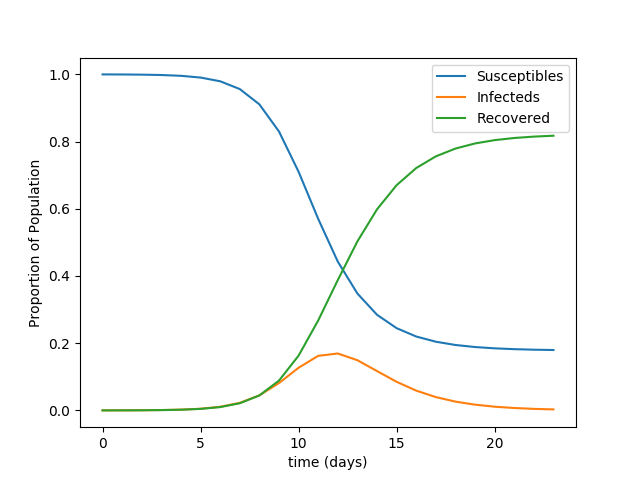
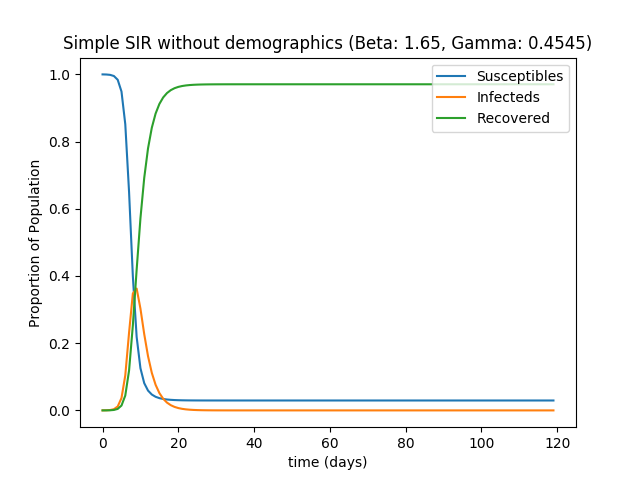
update from 09/25

diff --git a/src/closed_sir.py b/src/closed_sir.py
@@ -13,7 +13,7 @@ from sympy import *
 # time zero
 t0 = 0
 # end time
-tn = 365
+tn = 120
 # time step
 t_step = 1
 
@@ -50,6 +50,8 @@ sol = odeint(closed_sir, init_params, time_steps)
 
 # Plot the results in one figure
 plt.plot(sol)
+plt.title("Simple SIR without demographics (Beta: {}, Gamma: {})".format(beta
+                                                                         , gamma))
 plt.xlabel("time (days)")
 plt.ylabel("Proportion of Population")
 plt.legend(("Susceptibles", "Infecteds", "Recovered"),
@@ -57,19 +59,19 @@ plt.legend(("Susceptibles", "Infecteds", "Recovered"),
 plt.savefig("closed-sir.png")
 
 ##########################################
-# Multiple values of beta and gamma plot #
+# Multiple values of beta and gamma plot ##
 ##########################################
 
 # Transmission rate
-beta_values = [2**x for x in range(5, 9)]
-# Recovery rate
-gamma_values = [0.33, 0.11, 0.055, 0.037]
+#beta_values = [2**x for x in range(5, 9)]
+#Recovery rate
+#gamma_values = [0.33, 0.11, 0.055, 0.037]
 
-fig, axs = plt.subplots(4, 4)
-fig.suptitle("SIR over multiple values")
-for beta in beta_values:
-    for gamma in gamma_values:
-        sol = odeint(closed_sir, init_params, time_steps)
-        axs[beta_values.index(beta), gamma_values.index(gamma)].plot(sol)
-        axs[beta_values.index(beta), gamma_values.index(gamma)].set_title('Beta:{} Gamma:{}'.format(beta, gamma))
-plt.savefig("mutliple-plots.png")
+##fig, axs = plt.subplots(4, 4)
+#fig.suptitle("SIR over multiple values")
+#for beta in beta_values:
+#    for gamma in gamma_values:
+#        sol = odeint(closed_sir, init_params, time_steps)
+#        axs[beta_values.index(beta), gamma_values.index(gamma)].plot(sol)
+#        axs[beta_values.index(bet#a), gamma_values.index(gamma)].set_title('Beta:{} Gamma:{}'.format(beta, gamma))
+#plt.savefig("mutliple-plots.png")

diff --git a/src/demographics-sir.py b/src/demographics-sir.py
@@ -4,8 +4,8 @@ import numpy as np
 from scipy.integrate import odeint
 
 # Constant parameters
-beta = 0.75
-gamma = 0.1428
+beta = 1.3
+gamma = 0.333
 mu = 0.0003
 
 # Setting up time range
@@ -34,9 +34,8 @@ sol = odeint(demographics_sir, init_params, t_span)
 
 # Plotting results
 fig, axs = plt.subplots(3)
-fig.suptitle('SIR Model With Demographics')
+fig.suptitle('SIR Model With Demographics (Beta: {}, Gamma: {})'.format(beta, gamma))
 axs[0].plot(sol[:,0])
 axs[1].plot(sol[:,1])
 axs[2].plot(sol[:,2])
-axs[2].xlabel('time (days)')
 plt.savefig("demographics-sir.png")

diff --git a/notebook/.#2019-09-25-sir-with-demographics-stability.md b/notebook/.#2019-09-25-sir-with-demographics-stability.md
@@ -1,0 +1,1 @@
+bodieweedop@afi.6109:1569418425
